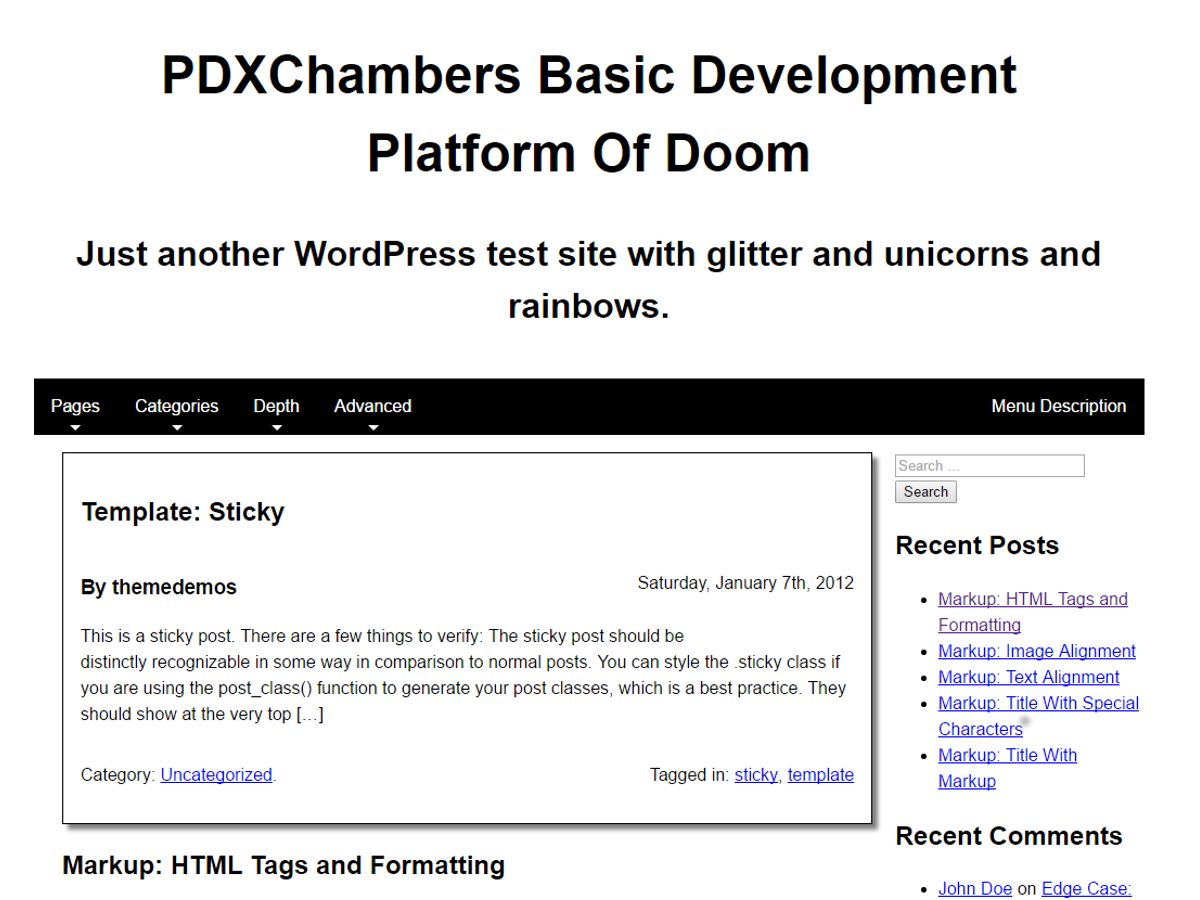
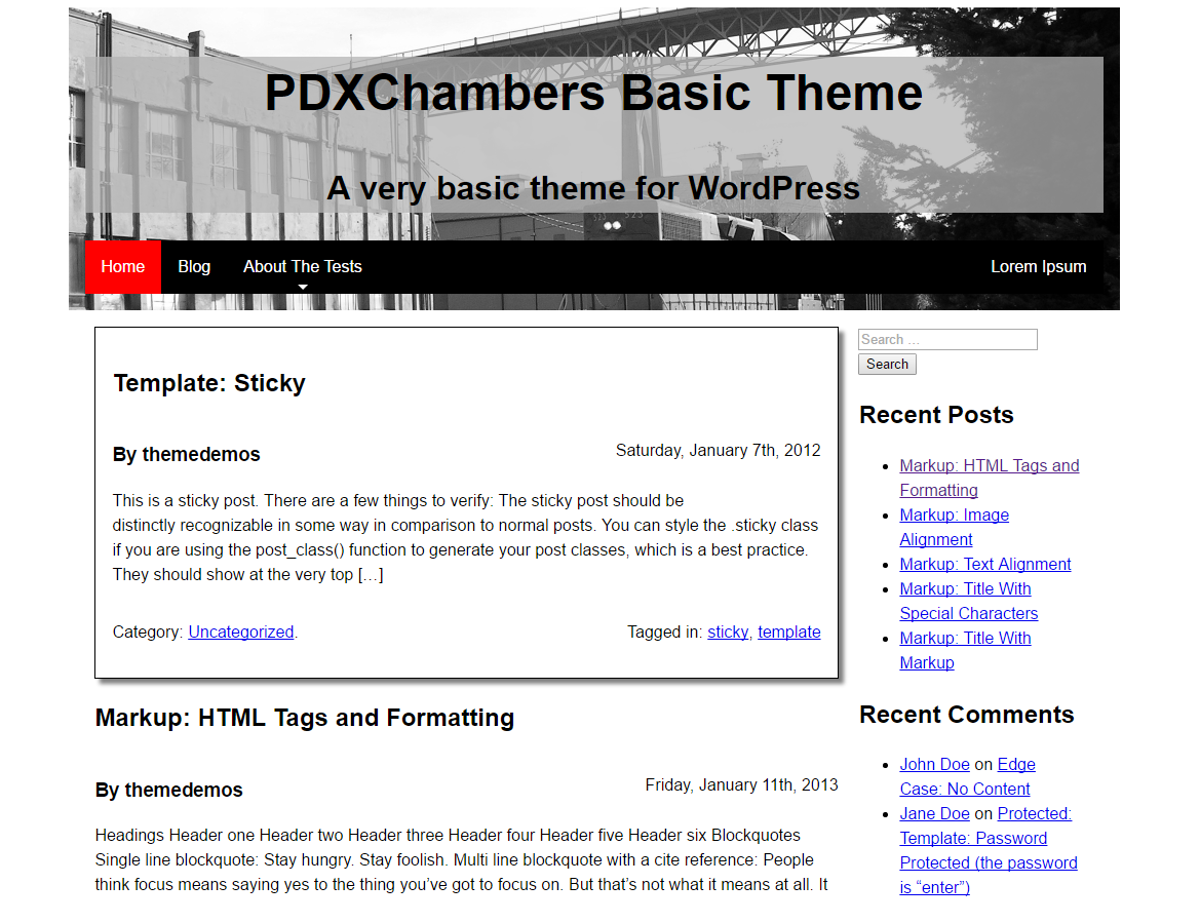
Final Commit
Final commit, this version is being submitted to the WordPress theme
repository for review.

diff --git a/css/nav-menu.css b/css/nav-menu.css
@@ -90,15 +90,15 @@ ul.sub-menu li.menu-item-has-children span.down-triangle {
 }
 
 /* line 90, ../scss/nav-menu.scss */
-.current_menu_item {
+.current-menu-item {
   background-color: red;
 }
 
 /* line 97, ../scss/nav-menu.scss */
-.current_menu_item a:link,
-.current_menu_item a:hover,
-.current_menu_item a:visited,
-.current_menu_item a:focus {
+.current-menu-item a:link,
+.current-menu-item a:hover,
+.current-menu-item a:visited,
+.current-menu-item a:focus {
   color: white;
 }
 

diff --git a/scss/nav-menu.scss b/scss/nav-menu.scss
@@ -87,14 +87,14 @@ ul.sub-menu li.menu-item-has-children span.down-triangle {
 }
 
 
-.current_menu_item {
+.current-menu-item {
   background-color: $site-nav-current-item;
 }
 
-.current_menu_item a:link,
-.current_menu_item a:hover,
-.current_menu_item a:visited,
-.current_menu_item a:focus {
+.current-menu-item a:link,
+.current-menu-item a:hover,
+.current-menu-item a:visited,
+.current-menu-item a:focus {
   color: $site-nav-current-link;
 }
 

diff --git a/css/pdxc-basic-styles.css b/css/pdxc-basic-styles.css
@@ -374,4 +374,9 @@ a img.aligncenter {
   #post-wrapper {
     width: 100%;
   }
+
+  /* line 339, ../scss/pdxc-basic-styles.scss */
+  li.depth-4 {
+    display: none;
+  }
 }

diff --git a/scss/pdxc-basic-styles.scss b/scss/pdxc-basic-styles.scss
@@ -335,4 +335,8 @@ a img.aligncenter {
 	#post-wrapper {
 		width: 100%;
 	}
+	
+	li.depth-4 {
+		display: none;
+	}
 }

diff --git a/header.php b/header.php
@@ -16,6 +16,7 @@
     	<meta name="viewport" content="width=device-width, initial-scale=1">
 		<link rel="profile" href="http://gmpg.org/xfn/11" />
 		<link rel="pingback" href="<?php bloginfo( 'pingback_url' ); ?>" />
+		<?php if ( is_singular() ) wp_enqueue_script( "comment-reply" ); ?>
 		<?php wp_head(); ?>
 	</head>
 	<body id="bodyTag" <?php body_class(); ?>>
